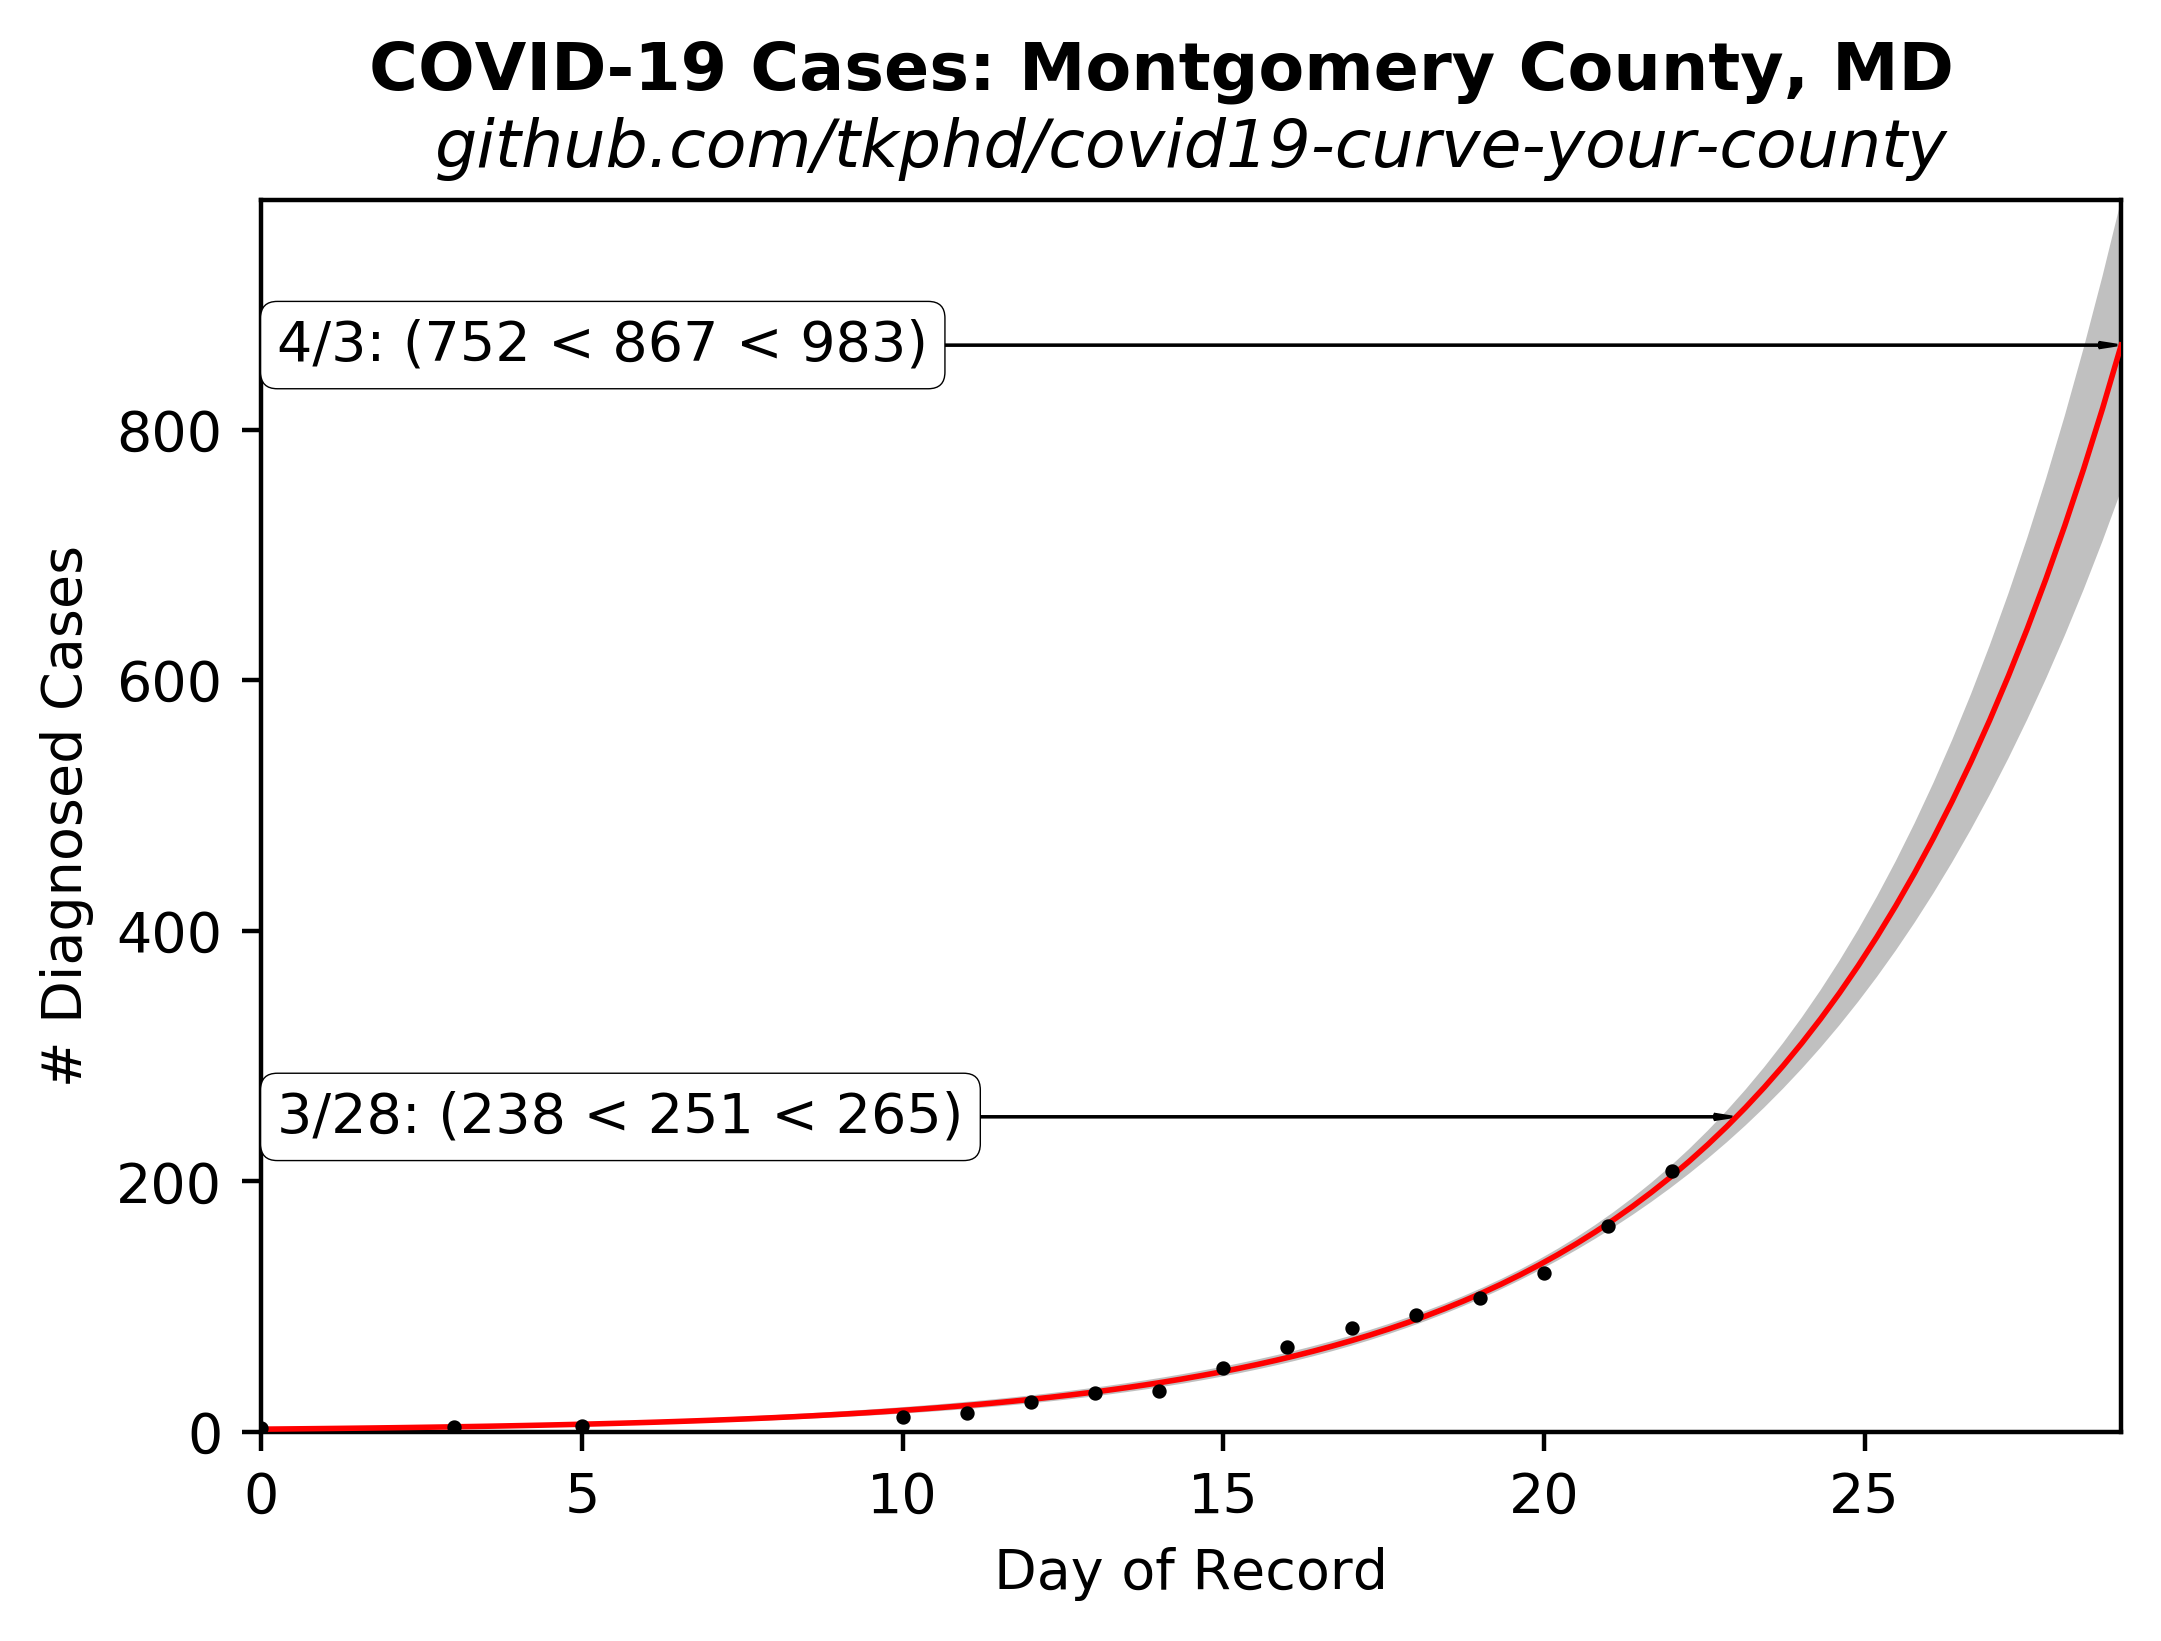
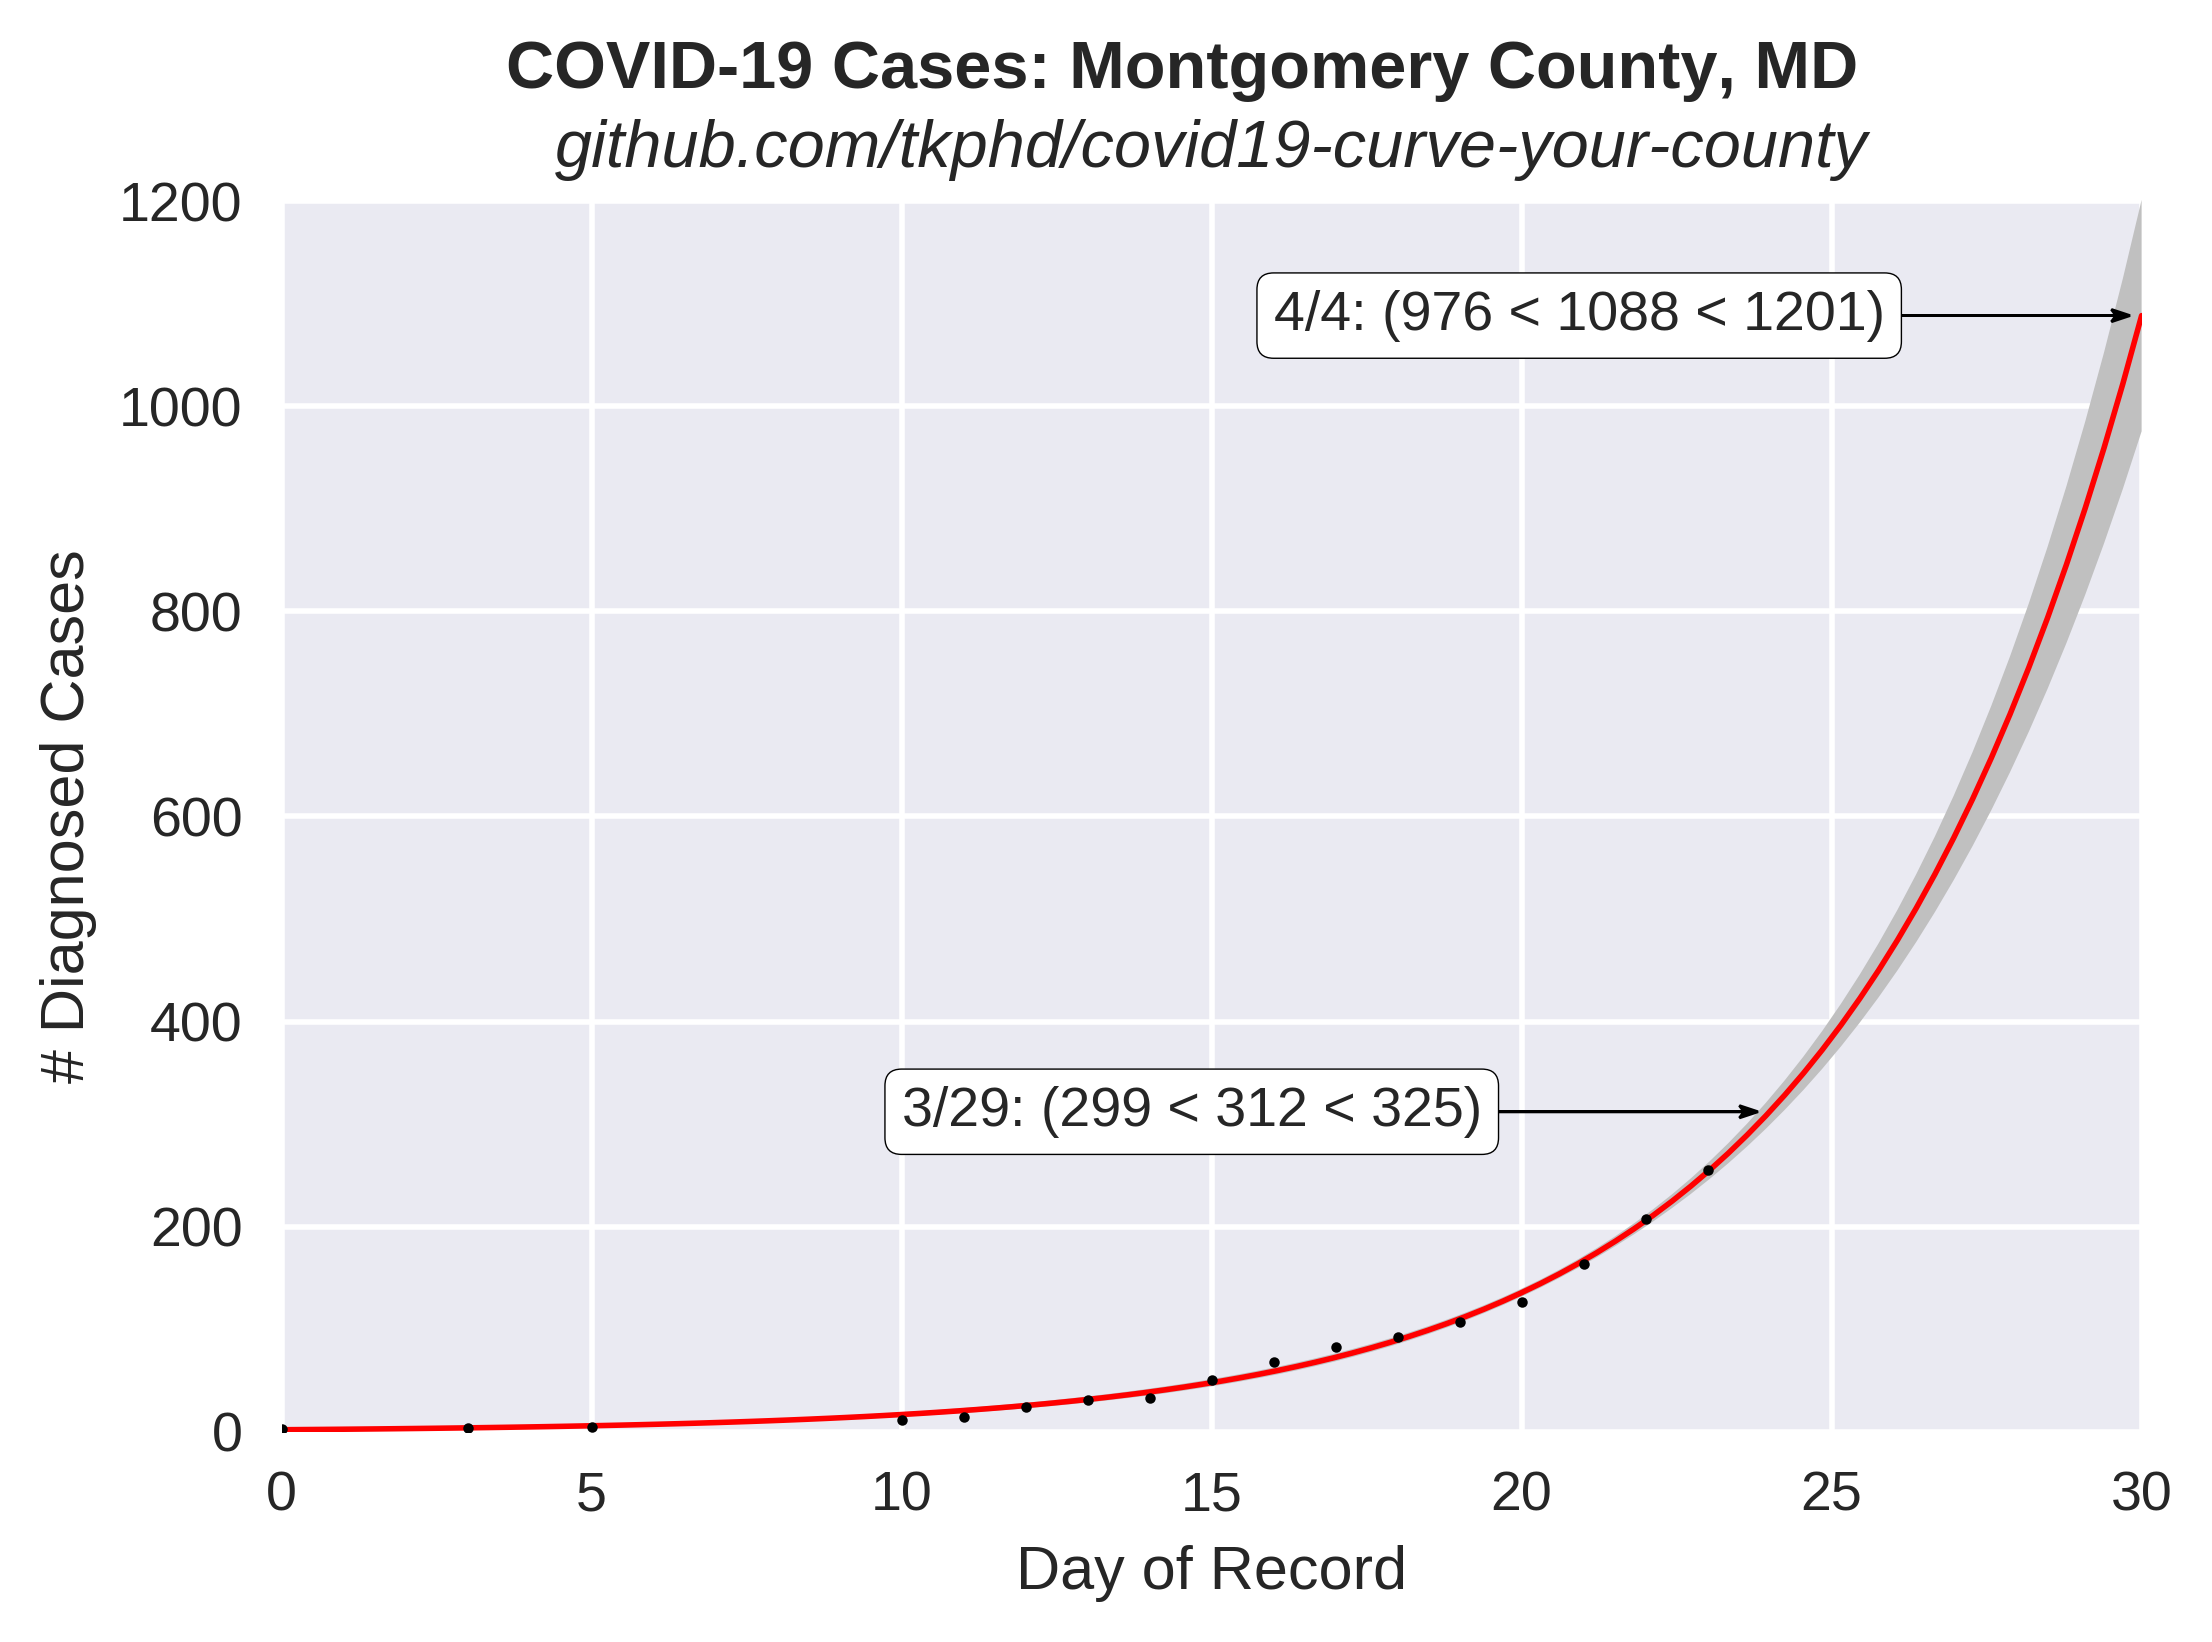
2020-03-28 update

diff --git a/exponential.py b/exponential.py
@@ -8,6 +8,8 @@ from kapteyn import kmpfit
 from time import strptime
 from datetime import date
 from scipy.stats import t
+from matplotlib import style
+style.use("seaborn")
 
 def model(p, x):
     a, b = p
@@ -42,8 +44,6 @@ plt.scatter(x, y, marker=".", s=10, color="k", zorder=10)
 f = kmpfit.simplefit(model, [1, 1], x, y)
 a, b = f.params
 
-# print("cases ~ {0:.2g} * (1 + {1:.2g})^t".format(a, b))
-
 # Confidence Band: dfdp represents the partial derivatives of the model with respect to each parameter p (i.e., a and b)
 
 xhat = np.linspace(0, x[-1] + 7, 100)
@@ -74,9 +74,10 @@ xhat = np.array([tomorrow.toordinal() - start, nextWeek.toordinal() - start])
 dfdp = [(1 + b) ** xhat, (a * xhat * (1 + b) ** xhat) / (1 + b)]
 yhat, upper, lower = f.confidence_band(xhat, dfdp, level, model)
 dx = 0.25
+dt = 14
 
 plt.text(
-    dx,
+    xhat[0] - dt,
     yhat[0],
     "{0}/{1}: ({2:.0f} < {3:.0f} < {4:.0f})".format(
         tomorrow.month, tomorrow.day, lower[0], yhat[0], upper[0]
@@ -86,7 +87,7 @@ plt.text(
     bbox=dict(boxstyle="round", ec="black", fc="white", linewidth=dx),
 )
 plt.text(
-    dx,
+    xhat[1] - dt,
     yhat[1],
     "{0}/{1}: ({2:.0f} < {3:.0f} < {4:.0f})".format(
         nextWeek.month, nextWeek.day, lower[1], yhat[1], upper[1]
@@ -96,13 +97,13 @@ plt.text(
     bbox=dict(boxstyle="round", ec="black", fc="white", linewidth=dx),
 )
 
-hw = (upper[1] - lower[1]) / 50
+hw = 12
 hl = xhat[1] / 100
 
 plt.arrow(
-    dx,
+    xhat[0] - dt,
     yhat[0],
-    xhat[0] - dx - 0.0625,
+    dt - dx + 0.0625,
     0,
     fc="black",
     ec="black",
@@ -114,9 +115,9 @@ plt.arrow(
     zorder=2,
 )
 plt.arrow(
-    dx,
+    xhat[1] - dt,
     yhat[1],
-    xhat[1] - dx - 0.0625,
+    dt - dx + 0.0625,
     0,
     fc="black",
     ec="black",
